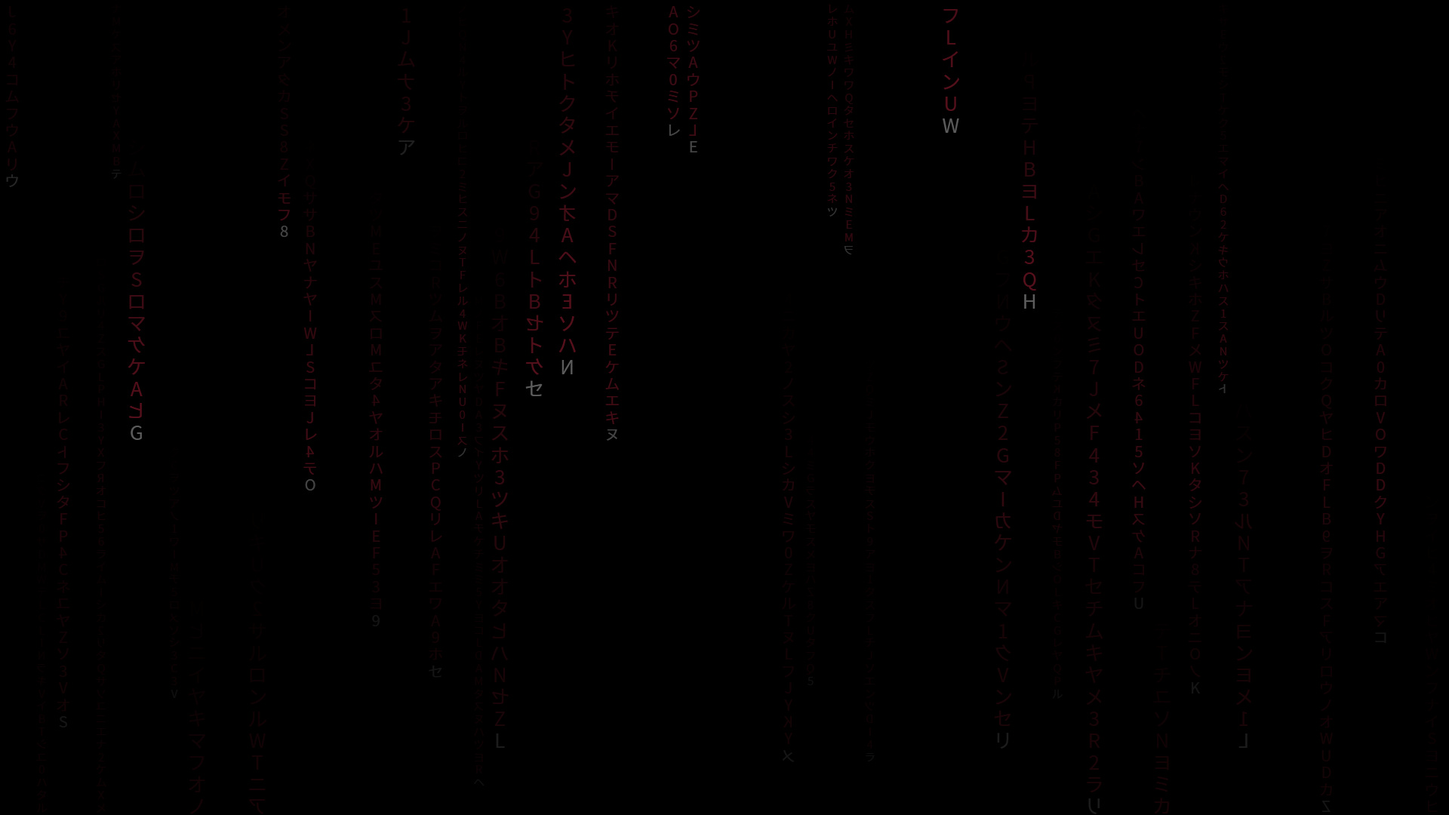
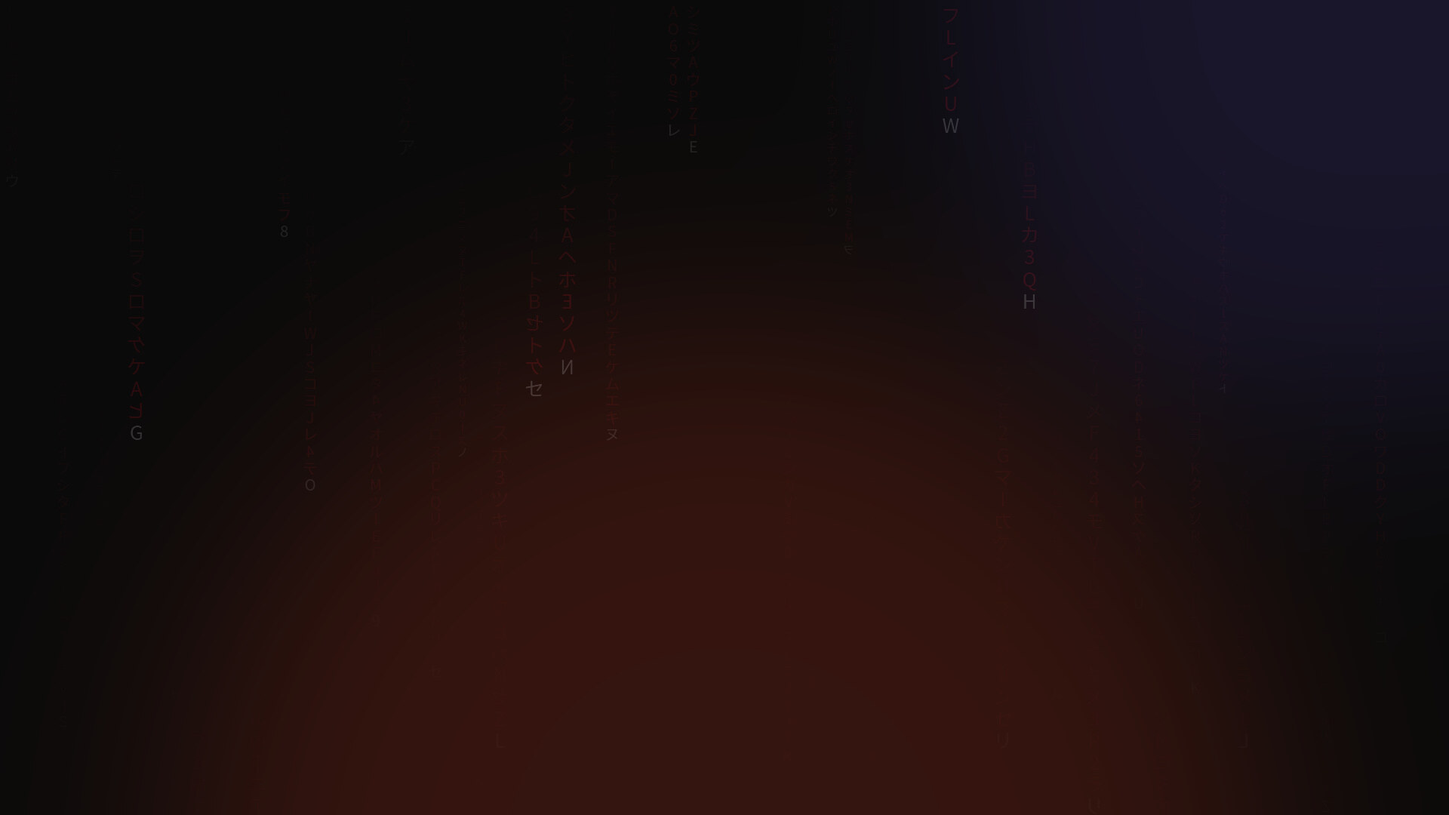
Launcher: liquid glass on the dock, the pills and every popup
The band, the four top-right circles and their popups share one material
— a milky body (28% to 12%), a glint off the top-left corner, a dark
inner shadow under the top rim, a bright rim that dims, and the frost
magnified 3.5% about each shape's centre so the light looks bent —
instead of a flat tint, and the settings panel the remote opens matches.

The r4g-home wallpaper now carries something for that glass to transmit,
because red-rain's own file is empty and near-black behind the dock
(0.0011 mean in the band's rows) and the frost had nothing to smear: the
rain lifted in contrast (gamma 0.55, add 4%), a soft red glow behind the
dock and a fainter violet one behind the top bar. Band rows 0.09,
circles 0.11.

Tried on the Acer R4G 50" (Google TV 14, UKR1.260308).

diff --git a/launcher/app/src/main/java/com/gathin/tvhome/BackdropGlassDrawable.java b/launcher/app/src/main/java/com/gathin/tvhome/BackdropGlassDrawable.java
@@ -9,16 +9,20 @@ import android.graphics.LinearGradient;
 import android.graphics.Matrix;
 import android.graphics.Paint;
 import android.graphics.PixelFormat;
+import android.graphics.RadialGradient;
 import android.graphics.Rect;
 import android.graphics.RectF;
 import android.graphics.Shader;
 import android.graphics.drawable.Drawable;
 
 /**
- * A frosted-glass background in the shape of its own bounds: the blurred wallpaper (the shared blurred copy
- * of the screen, drawn at the view's screen position so the smear lines up with the picture behind it), the
- * pills'/dock's white glass fading downwards, and the same thin rim. Used as the background of the top-right
- * pills and of the glass popups' panels, so the frost is part of the background and can never cover content.
+ * A liquid-glass background in the shape of its own bounds, in four layers: the blurred wallpaper (the shared
+ * blurred copy of the screen, drawn at the view's screen position so the smear lines up with the picture
+ * behind it), the pills'/dock's white body fading downwards, a soft sheen off the top-left corner, and the
+ * moulded edge - a dark inner shadow under the top rim that gives the glass thickness, and a bright rim that
+ * fades towards the bottom, so the shape reads as a lens and not as a flat slab. Used as the background of the
+ * top-right pills and of the glass popups' panels, so the frost is part of the background and can never cover
+ * content.
  *
  * While the view is focused the slab turns solid white, like the pills' focused state always was.
  *
@@ -31,8 +35,19 @@ public class BackdropGlassDrawable extends Drawable {
     private final Paint scrim = new Paint(Paint.ANTI_ALIAS_FLAG);
     private final Paint rim = new Paint(Paint.ANTI_ALIAS_FLAG);
     private final Paint solid = new Paint(Paint.ANTI_ALIAS_FLAG);
+    /** The glint in the top-left corner: liquid glass catches the room's light there, not only at the rim. */
+    private final Paint sheen = new Paint(Paint.ANTI_ALIAS_FLAG);
+    /** The dark inner shadow just under the top rim, which is what makes the shape look moulded. */
+    private final Paint depth = new Paint(Paint.ANTI_ALIAS_FLAG);
+    /** The bright rim, fading towards the bottom where the glass catches the light less. */
+    private final Paint lens = new Paint(Paint.ANTI_ALIAS_FLAG);
+    /** How much the backdrop is magnified inside the shape: about 3.5% at the edges reads as bent light. */
+    private static final float REFRACTION = 1.035f;
     private final RectF rect = new RectF();
     private final Matrix shaderMatrix = new Matrix();
+    /** Where the shape sits on screen, so the shader shows the part of the picture behind it. */
+    private int offsetX, offsetY;
+    private final float density;
     private final float radius;
     private final int scrimTop, scrimBottom;
     /** The shared blurred copy of the screen-sized wallpaper; null before the first picture or when it was dropped. */
@@ -53,21 +68,27 @@ public class BackdropGlassDrawable extends Drawable {
     /** The constructor DrawableInflater uses for pill_glass.xml: drawables are inflated with no arguments.
      *  The density is the system's, which is this window's too; a 21dp pill corner, the pills' white glass. */
     public BackdropGlassDrawable() {
-        this(Resources.getSystem().getDisplayMetrics().density, 21f, 0x2EFFFFFF, 0x14FFFFFF);
+        this(Resources.getSystem().getDisplayMetrics().density, 21f, 0x47FFFFFF, 0x1FFFFFFF);
     }
 
     /** @param density     px per dp.
      *  @param radiusDp    the shape's corner radius in dp (a 21dp pill at 42dp height is a circle).
      *  @param scrimTop    the glass fill at the top of the shape, an ARGB colour carrying its alpha.
-     *  @param scrimBottom the same at the bottom (the pills fade from 18% to 8% white). */
+     *  @param scrimBottom the same at the bottom (the pills and panels fade from 28% to 12% white, milky enough
+     *                     to read as frosted glass over a dark picture and still show it through). */
     BackdropGlassDrawable(float density, float radiusDp, int scrimTop, int scrimBottom) {
         radius = radiusDp * density;
         this.scrimTop = scrimTop;
         this.scrimBottom = scrimBottom;
+        this.density = density;
         rim.setStyle(Paint.Style.STROKE);
         rim.setStrokeWidth(density);
         rim.setColor(0x38FFFFFF);
         solid.setColor(0xF5FFFFFF);
+        lens.setStyle(Paint.Style.STROKE);
+        lens.setStrokeWidth(1.6f * density);
+        depth.setStyle(Paint.Style.STROKE);
+        depth.setStrokeWidth(2f * density);
     }
 
     /** The blurred screen at the picture's own size; null when there is no picture (the plain glass stays). */
@@ -79,7 +100,8 @@ public class BackdropGlassDrawable extends Drawable {
 
     /** Where this shape sits on screen, so the shader shows the part of the picture that is behind it. */
     void setScreenOffset(int x, int y) {
-        shaderMatrix.setTranslate(-x, -y);
+        offsetX = x;
+        offsetY = y;
         applyShader();
         invalidateSelf();
     }
@@ -89,6 +111,11 @@ public class BackdropGlassDrawable extends Drawable {
             blurPaint.setShader(null);
             return;
         }
+        // The picture behind the glass, then a slight magnification about the shape's own centre: the light that
+        // crosses the rim is bent, so what is inside the glass is a touch larger than what is outside it. That
+        // small shift at the edges is what reads as a lens rather than as a pane of tinted glass.
+        shaderMatrix.setTranslate(-offsetX, -offsetY);
+        shaderMatrix.postScale(REFRACTION, REFRACTION, rect.centerX(), rect.centerY());
         BitmapShader shader = new BitmapShader(backdrop, Shader.TileMode.CLAMP, Shader.TileMode.CLAMP);
         shader.setLocalMatrix(shaderMatrix);
         blurPaint.setShader(shader);
@@ -195,6 +222,21 @@ public class BackdropGlassDrawable extends Drawable {
         rect.set(bounds);
         scrim.setShader(new LinearGradient(0, bounds.top, 0, bounds.bottom,
                 scrimTop, scrimBottom, Shader.TileMode.CLAMP));
+        // The lens: a bright rim that dims towards the bottom, an inner shadow that reads as thickness under
+        // it, and a wide glint off the top-left corner. All three in the shape's own coordinates, so a pill
+        // and a popup panel look like the same material at their own sizes.
+        if (bounds.width() <= 0 || bounds.height() <= 0) return;
+        lens.setShader(new LinearGradient(0, bounds.top, 0, bounds.bottom,
+                0x6BFFFFFF, 0x29FFFFFF, Shader.TileMode.CLAMP));
+        depth.setShader(new LinearGradient(0, bounds.top, 0, bounds.bottom,
+                new int[]{0x4D000000, 0x00000000, 0x24FFFFFF},
+                new float[]{0f, 0.45f, 1f}, Shader.TileMode.CLAMP));
+        sheen.setShader(new RadialGradient(bounds.left + bounds.width() * 0.3f,
+                bounds.top + bounds.height() * 0.05f,
+                Math.max(bounds.width(), bounds.height()) * 0.65f,
+                0x2BFFFFFF, 0x00FFFFFF, Shader.TileMode.CLAMP));
+        // The shader is centred on the shape, so a new size needs it again (refraction).
+        applyShader();
     }
 
     @Override
@@ -206,13 +248,19 @@ public class BackdropGlassDrawable extends Drawable {
         }
         if (backdrop != null) canvas.drawRoundRect(rect, radius, radius, blurPaint);
         canvas.drawRoundRect(rect, radius, radius, scrim);
-        canvas.drawRoundRect(rect, radius, radius, rim);
+        canvas.drawRoundRect(rect, radius, radius, sheen);
+        canvas.drawRoundRect(rect, radius, radius, depth);
+        canvas.drawRoundRect(rect, radius, radius, lens);
     }
 
     @Override
     public void setAlpha(int alpha) {
         blurPaint.setAlpha(alpha);
         rim.setAlpha(alpha);
+        scrim.setAlpha(alpha);
+        sheen.setAlpha(alpha);
+        depth.setAlpha(alpha);
+        lens.setAlpha(alpha);
         invalidateSelf();
     }
 

diff --git a/launcher/app/src/main/java/com/gathin/tvhome/DockDecoration.java b/launcher/app/src/main/java/com/gathin/tvhome/DockDecoration.java
@@ -3,6 +3,7 @@ package com.gathin.tvhome;
 import android.graphics.Canvas;
 import android.graphics.LinearGradient;
 import android.graphics.Paint;
+import android.graphics.RadialGradient;
 import android.graphics.Rect;
 import android.graphics.RectF;
 import android.graphics.Shader;
@@ -18,6 +19,10 @@ public class DockDecoration extends RecyclerView.ItemDecoration {
     private final float density;
     private final Paint band = new Paint(Paint.ANTI_ALIAS_FLAG);
     private final Paint edge = new Paint(Paint.ANTI_ALIAS_FLAG);
+    /** The band's glint, its inner shadow and its bright rim - the same liquid-glass material as the pills. */
+    private final Paint sheen = new Paint(Paint.ANTI_ALIAS_FLAG);
+    private final Paint depth = new Paint(Paint.ANTI_ALIAS_FLAG);
+    private final Paint lens = new Paint(Paint.ANTI_ALIAS_FLAG);
     private final RectF rect = new RectF();
 
     /** Extra band below the tiles for their names (always_show_names), in px. */
@@ -28,6 +33,8 @@ public class DockDecoration extends RecyclerView.ItemDecoration {
     private final boolean evenPadding;
     /** The band's top and bottom the glass gradient was made for; it is remade when they move. */
     private float shaderTop = Float.NaN, shaderBottom = Float.NaN;
+    /** The band's left and right the glint was made for, so a wider band's glint stays in its corner. */
+    private float shaderLeft = Float.NaN, shaderRight = Float.NaN;
     /** Draw the band and its edge (config.xml dock_band); false leaves the tiles floating on the wallpaper. */
     private final boolean bandVisible;
     /** single_row: the tiles after the dock share its row, so they take the same offsets to stay level with it. */
@@ -64,6 +71,12 @@ public class DockDecoration extends RecyclerView.ItemDecoration {
         edge.setStyle(Paint.Style.STROKE);
         edge.setStrokeWidth(density);
         edge.setColor(lightGlass ? 0x38FFFFFF : translucent ? 0x26FFFFFF : 0x1FFFFFFF);
+        // The pills' liquid-glass lens (BackdropGlassDrawable): a bright rim fading down, the inner shadow under
+        // it, and the glint off the top-left corner.
+        lens.setStyle(Paint.Style.STROKE);
+        lens.setStrokeWidth(1.6f * density);
+        depth.setStyle(Paint.Style.STROKE);
+        depth.setStrokeWidth(2f * density);
     }
 
     /** Concentric corners: the band's radius is the tiles' radius plus the band's padding around them. */
@@ -163,12 +176,24 @@ public class DockDecoration extends RecyclerView.ItemDecoration {
             rect.right = Math.min(rect.right, parent.getWidth() - density);
         }
         rect.bottom += namesRoom;
-        if (lightGlass && (rect.top != shaderTop || rect.bottom != shaderBottom)) {
-            // The pills' glass (BackdropGlassDrawable: white, 18% fading to 8%), a little fainter over this much larger area.
-            band.setShader(new LinearGradient(0, rect.top, 0, rect.bottom, 0x24FFFFFF, 0x0DFFFFFF,
+        if (lightGlass && (rect.top != shaderTop || rect.bottom != shaderBottom
+                || rect.left != shaderLeft || rect.right != shaderRight)) {
+            // The pills' glass (BackdropGlassDrawable: white, 28% fading to 12%), a little fainter over this much larger area.
+            band.setShader(new LinearGradient(0, rect.top, 0, rect.bottom, 0x47FFFFFF, 0x1FFFFFFF,
                     Shader.TileMode.CLAMP));
+            // The same lens the pills carry: a rim that dims towards the bottom, the inner shadow that gives it
+            // thickness, and a wide glint off the top-left corner of the band.
+            lens.setShader(new LinearGradient(0, rect.top, 0, rect.bottom,
+                    0x64FFFFFF, 0x26FFFFFF, Shader.TileMode.CLAMP));
+            depth.setShader(new LinearGradient(0, rect.top, 0, rect.bottom,
+                    new int[]{0x47000000, 0x00000000, 0x22FFFFFF},
+                    new float[]{0f, 0.45f, 1f}, Shader.TileMode.CLAMP));
+            sheen.setShader(new RadialGradient(rect.left + rect.width() * 0.22f, rect.top + rect.height() * 0.1f,
+                    Math.max(rect.width(), rect.height()) * 0.62f, 0x26FFFFFF, 0x00FFFFFF, Shader.TileMode.CLAMP));
             shaderTop = rect.top;
             shaderBottom = rect.bottom;
+            shaderLeft = rect.left;
+            shaderRight = rect.right;
         }
         int bl = Math.round(rect.left), bt = Math.round(rect.top), br = Math.round(rect.right), bb = Math.round(rect.bottom);
         if (bl != lastBand.left || bt != lastBand.top || br != lastBand.right || bb != lastBand.bottom
@@ -179,6 +204,13 @@ public class DockDecoration extends RecyclerView.ItemDecoration {
             if (bandListener != null) bandListener.run();
         }
         c.drawRoundRect(rect, radius, radius, band);
-        c.drawRoundRect(rect, radius, radius, edge);
+        if (lightGlass) {
+            // The liquid-glass layers over the band's body: glint, inner shadow, bright rim.
+            c.drawRoundRect(rect, radius, radius, sheen);
+            c.drawRoundRect(rect, radius, radius, depth);
+            c.drawRoundRect(rect, radius, radius, lens);
+        } else {
+            c.drawRoundRect(rect, radius, radius, edge);
+        }
     }
 }

diff --git a/launcher/app/src/main/java/com/gathin/tvhome/MainActivity.java b/launcher/app/src/main/java/com/gathin/tvhome/MainActivity.java
@@ -3727,7 +3727,7 @@ public class MainActivity extends Activity implements AppAdapter.TileListener {
      *  rows by construction - the frost can never cover the content. */
     private void attachGlassBackdrop(PopupWindow popup, View panel) {
         if (dockBlurDp <= 0) return;
-        BackdropGlassDrawable glass = new BackdropGlassDrawable(density, 20f, 0x24FFFFFF, 0x0DFFFFFF);
+        BackdropGlassDrawable glass = new BackdropGlassDrawable(density, 20f, 0x47FFFFFF, 0x1FFFFFFF);
         panel.setBackground(glass);   // replaces glass_panel's dark slab
         glass.setBackdrop(blurredBackdrop);
         glassBackdrops.add(glass);

diff --git a/launcher/app/src/main/java/com/gathin/tvhome/QuickSettingsActivity.java b/launcher/app/src/main/java/com/gathin/tvhome/QuickSettingsActivity.java
@@ -46,7 +46,7 @@ public final class QuickSettingsActivity extends Activity {
         android.graphics.Bitmap backdrop = BackdropGlassDrawable.sharedBackdrop();
         if (backdrop != null) {
             BackdropGlassDrawable glass = new BackdropGlassDrawable(
-                    getResources().getDisplayMetrics().density, 20f, 0x24FFFFFF, 0x0DFFFFFF);
+                    getResources().getDisplayMetrics().density, 20f, 0x47FFFFFF, 0x1FFFFFFF);
             glass.setBackdrop(backdrop);
             panelView.setBackground(glass);
             panelView.addOnLayoutChangeListener((v, l, t, r, b, ol, ot, orr, ob) -> {

diff --git a/ISSUES.md b/ISSUES.md
@@ -32,6 +32,8 @@ from the symptom column. The procedure itself is in [MYTV.md](MYTV.md).
 | 24 | The tiles for Netflix, Prime Video, Hotstar and YouTube were gone from Home, but the remote's app buttons still opened them from any screen | `hidden_apps` only hides tiles — the packages stayed installed, so any direct launch path still worked, and the firmware's cold-boot job keeps re-enabling what exists (#14, #21) | On our set: `pm uninstall --user 0` for every bloat package that was only disabled or hidden — 33 packages on 2026-11-01 (the four streaming apps, the hidden_apps utilities, the rest of the disabled list). The job can only enable a package that still exists, so nothing brings them back. Kept: `com.realtek.tv` (HDMI), `com.apps.ota` (firmware), `com.apps.bluetoothremote` (pairing), consent and backup components — the full list is [MYTV.md](MYTV.md) §2c |
 | 25 | The Play Store came back after a reboot even though `pm disable-user --user 0 com.android.vending` answered `Success` | The firmware's cold-boot `pm enable` pass (#14, #21) re-enables every package that still exists on its list, and `vending` evidently gets the same treatment — a disable on this set lasts only until the next power cycle | Remove it: `pm uninstall --user 0 com.android.vending`. Checked across two cold boots on 2026-11-02 — `pm path com.android.vending` stayed empty, because the job can only `pm enable` a package that still exists (the same reason the 33 in #24 stay gone). Play Services stays enabled, and with LocalSend and VLC already on F-Droid builds nothing on the set is Play-managed. Record: [MYTV.md](MYTV.md) §2d |
 | 26 | `tools/venv/bin/python -m unittest discover -s tests` was **red on a clean checkout** — 31 failures and 13 errors, none of them caused by an edit | Upstream's suite asserts upstream's pages. On 2026-10-30 this fork replaced the root `README.md` with its own 54-line page (`35ace4e3`), so the Tools table, the brand-grid markers, the translation links, the press card, the quick start's clone step and the privacy, Tizen, Fire TV and Home-protection sections the tests read were all gone; `gen_tables.py --check` stopped on the missing `<!-- tv-brands -->` markers; `themes/` held 13 folders (`r4g-home` is ours) while the German and Dutch rows said 12; `examples/acer-r4g-gtv/` had no `tv.json`; and five pages gave the set's real LAN address | Fixed 2026-11-03. The page is now our fork block on top — [MYTV.md](MYTV.md), [ISSUES.md](ISSUES.md), `apps.txt`, our one command, what our set runs — followed by upstream's sections, so every table and heading the tests read is back; the `tv.json` row is added, the real address is `<tv ip>` everywhere, the count reads 13 on all three front pages, `install_apps.py` has its Tools row, and `gen_tables.py` regenerated the brand grid, the table row and `tools/readme_stats.py`. **2251 tests, OK (41 skipped)**, and `gen_tables.py --check` exits 0. `gen_tables.py` still prints "a count changed": redraw `docs/stats.png` and `docs/card.jpg` when convenient |
+| 27 | The dock band, the four top-right circles and their popups showed no blur and no transparency over red-rain's wallpaper, while the same build frosted normally over a bright picture | The glass was drawing correctly — `logcat` (`TvHome.DockBlur`) showed a valid bitmap and the band's rectangle — but the wallpaper was near-pure black exactly where the glass sits: the band's rows measured **0.0011** mean luminance, the button area **0.0001**. Blurring black returns black, so the shapes had nothing to smear and read as flat grey slabs — and the bottom third of that file carries almost no rain at all, so merely raising its brightness gave an evenly grey wash, which blurs to itself | Give the picture something to transmit: `gamma 0.55` then `add 4%`, so the rain text is far brighter than the black around it, plus a soft red glow behind the dock and a faint violet one behind the top bar, composited into the picture (the band's rows went 0.0011 → 0.09, the circles to 0.11). Then give the glass its own material so the shapes read over a dark backdrop too: `BackdropGlassDrawable` and `DockDecoration` draw the white body (28% → 12%), a glint off the top-left corner, a dark inner shadow under the top rim, a bright rim that dims downwards, and 3.5% refraction. To tell "no blur" from "nothing to blur", push a green-over-red test picture and sample a column in a gap between band tiles: outside the band the colour flips in 2 rows, inside it ramps over about 60. Detail: [MYTV.md](MYTV.md) §8 |
+| 28 | The CI size gate (APK under 589,824 B) fails on `main`, not only after an edit | **Known state, pre-existing:** the unmodified tree builds 594,273 B — 4,449 B over — because this fork's two features (the idle clock, the glass) sit on top of upstream's budget. The liquid glass added 536 B on top of that (594,809 B). The gate is a replied-to issue for the maintainer, never a PR edit | Nothing to change here. Building with no JDK on the host goes through `tools/docker-build.sh launcher assembleRelease`, then `SKIP_BUILD=1 TV_HOST=<tv ip> launcher/build-and-install.sh`; check the size with `stat -c %s launcher/app/build/outputs/apk/release/app-release.apk` |
 
 ---
 

diff --git a/themes/r4g-home/README.md b/themes/r4g-home/README.md
@@ -33,8 +33,8 @@ way every folder in [`themes/`](../) is.
 | `settings_key_panel` | `true` | Settings opens the small glass panel (TV settings, Display, Network, Apps, Launcher settings) instead of the full TV Settings. The remote's Settings key already reads this; the on-screen gear needs the rebuilt APK below. |
 | `single_row` | `true` | Every app in one horizontal dock row: four tiles on screen at once (`columns` = 4), Right/Left scroll the row sideways to the rest. No grid below; Up goes to the top bar. |
 | `dock_band_all` | `true` | With `single_row`, the dock band runs behind **every** app in the row instead of only the four in `dock_apps`. |
-| `dock_glass` | `true` | The dock band as light frosted glass (iOS-"liquid glass"-ish: white gradient fading downwards, bright edge) so the wallpaper shows through it. Supersedes `dock_opacity` while on — the light glass has no dark colour to scale. |
-| `dock_blur` | `24` | Real backdrop blur behind the dock band: a blurred copy of the wallpaper clipped to the band's rounded rectangle (RenderEffect, Android 12+). The same blur and the band's glass also frost the top-right pills (inputs, network, reorder, settings), every glass popup's background and the settings panel the remote's Settings key opens, each blurred against its own place on screen; the pills keep their translucent circles and the popups their rows on top. One setting, 0 turns it all off. |
+| `dock_glass` | `true` | The dock band as liquid glass, so the wallpaper shows through it: the white body fading downwards, a glint off the top-left corner, a dark inner shadow under the top rim, a bright rim that dims towards the bottom, and the frost magnified about 3.5 % about the shape's centre so the light looks bent at the rim — the same material the pills and every popup carry. Supersedes `dock_opacity` while on — the light glass has no dark colour to scale. |
+| `dock_blur` | `24` | Real backdrop blur behind the dock band: a blurred copy of the wallpaper clipped to the band's rounded rectangle (RenderEffect, Android 12+). The same blur and the band's glass also frost the top-right pills (inputs, network, reorder, settings), every glass popup's background and the settings panel the remote's Settings key opens, each blurred against its own place on screen; the pills keep their translucent circles and the popups their rows on top. One setting, 0 turns it all off. **The blur only smears what the picture has.** `wallpaper.jpg` is red-rain's file treated so the glass has something to show: the rain lifted in contrast (`gamma 0.55`, then `add 4%`) so its text is far brighter than the black around it, plus a soft red glow behind the dock and a faint violet one behind the top bar, both added in the picture (not the launcher, so they cost nothing to draw). Red-rain's original is near-black behind the dock — 0.0011 mean luminance in the band's rows against 0.09 now — and the bottom third carries almost no rain at all, so on the untouched file the frost had nothing to smear and the glass read as a grey slab whichever way it was tinted. |
 | `dock_opacity` | `30` | The dock band at 30% opacity, so the wallpaper shows through it. Only applies while `dock_glass` is off. A value picked in Launcher settings still wins until the next `tools/theme.sh` push, which clears the pick (100, 70, 50 or 30 are its options). |
 | `stock_home_redirect` | `com.google.android.apps.tv.launcherx` | Stock Home stays on `launcherx` — this firmware re-enables it every cold boot — and sends its home screen straight back to this launcher. |
 | `home_idle_clock_minutes` | `10` | Clock screensaver after 10 idle minutes on Home (`0` = off). |

diff --git a/MYTV.md b/MYTV.md
@@ -291,6 +291,38 @@ The firmware's `FallbackHome` re-enables its 60-package list only on a **cold** 
 standby. After unplugging the TV, re-check step 6 — anything on that list comes back enabled, which is
 why `hidden_apps` rather than `pm disable-user` is what keeps those tiles away.
 
+## 8. The look: liquid glass, and why the wallpaper is lifted
+
+`dock_glass` + `dock_blur: 24` give Home one glass material everywhere: the dock band, the four top-right
+circles (inputs, network, reorder, settings), and every popup they open, including the settings panel the
+remote's Settings key shows. The band's blur is the view's `RenderEffect` (`DockBlurView`); the circles and
+popups draw a shared software-blurred copy of the same picture at their own place on screen, so the frost
+lines up with what is behind each shape. On top of the blur sits the glass itself
+(`BackdropGlassDrawable`, `DockDecoration`): the white body fading downwards, a glint off the top-left
+corner, a dark inner shadow under the top rim that gives it thickness, a bright rim that dims towards the
+bottom, and — in the pills and popups — the frost magnified about 3.5 % about the shape's own centre, so the
+light that crosses the rim looks bent and the shape reads as a lens rather than a pane of tinted glass.
+
+**The blur can only smear what the picture has.** With red-rain's own `wallpaper.jpg` the band and the
+buttons sit over near-pure black: the band's rows measured **0.0011** mean luminance, the button area
+**0.0001**, and the bottom third carries almost no rain at all — so even a brightened copy of it smears to a
+flat wash, and the glass read as a grey slab whichever way it was tinted. Not a bug in the layer: pushing a
+green-over-red test picture and sampling a column inside the band showed the colour ramping over about 60
+rows, against a 2-row flip outside it. Two things fixed it:
+
+- **The picture carries something to transmit.** `gamma 0.55` then `add 4%` lifts the rain so its text is far
+  brighter than the black around it (a blur of thin bright text reads as a haze; a blur of grey reads as
+  grey), plus a soft red glow behind the dock and a faint violet one behind the top bar, composited into the
+  picture itself. The band's rows now measure **0.09** and the circles **0.11** — the glow was halved from a first pass
+(0.12 / 0.18) that read too warm over the rain.
+- **The glass carries its own material**, so the shapes read as glass even where the backdrop is dark — the
+  body (28% white fading to 12%), the inner shadow, the bright rim and the 3.5% refraction.
+
+Verifying a blur claim, rather than trusting a screenshot: put a high-contrast test picture behind the band
+(green above, red below) and sample rows across the band's edge. Outside the band the colour flips green→red
+inside 10 rows; inside it ramps over about 40 — that ramp is the blur. A single screenshot of a dark wallpaper
+cannot tell "no blur" from "nothing to blur".
+
 ## Known behaviour on this set
 
 | Thing | State | Why |

diff --git a/themes/README.md b/themes/README.md
@@ -189,9 +189,9 @@ A new key needs one there in the same pull request.
 | `cinematic_scrim` | 0 to 100 | With `cinematic_home`, the strength of the dark scrim behind the shelf's name (`100` by default); lower lets a wallpaper show through |
 | `cinematic_art` | 0 to 100 | With `cinematic_home`, the opacity of the focused app's softened artwork (`50` by default); `0` leaves the wallpaper uncovered |
 | `dock_even_padding` | bool | The dock band's padding equals the gap between its tiles on all four sides, as far as the grid's edges leave room (`false` by default) |
-| `dock_glass` | bool | The dock band as light frosted glass like the top bar's pills (`false` by default); suits `sky_intensity` or a wallpaper, where the solid band reads as a dark slab |
+| `dock_glass` | bool | The dock band as light frosted glass like the top bar's pills (`false` by default); suits `sky_intensity` or a wallpaper, where the solid band reads as a dark slab. The glass is a liquid-glass material: a white body fading downwards, a glint off the top-left corner, a dark inner shadow under the top rim for thickness, a bright rim that dims towards the bottom, and the blurred backdrop magnified about 3.5% about the shape's centre so the light crossing the rim looks bent |
 | `dock_band` | bool | Draw the dock band and its edge (`true` by default); `false` leaves the tiles floating on the wallpaper with no band, border or dark slab |
-| `dock_blur` | 0 to 40 | Real backdrop blur behind the dock band: a blurred copy of the wallpaper clipped to the band's rounded rectangle, in dp of radius (0, the default, keeps no layer; about 24 reads as frosted glass, Android 12+). Above 0 the same blur and glass also frost the top-right pills' circles, every glass popup's background and the settings panel (`settings_key_panel`), each against its own place on screen |
+| `dock_blur` | 0 to 40 | Real backdrop blur behind the dock band: a blurred copy of the wallpaper clipped to the band's rounded rectangle, in dp of radius (0, the default, keeps no layer; about 24 reads as frosted glass, Android 12+). Above 0 the same blur and glass also frost the top-right pills' circles, every glass popup's background and the settings panel (`settings_key_panel`), each against its own place on screen. The blur only smears what the picture has behind the glass, so over a near-black wallpaper the shapes read through their body and rim alone — give the picture texture there (or lift its shadows) if the frost should be visible |
 | `single_row` | bool | Every app in the dock's row, the dock apps first, scrolling sideways; no grid below (`false` by default; needs `dock_row`) |
 | `dock_band_all` | bool | With `single_row`, the band runs behind every app in the row, not only the dock apps (`false` by default) |
 | `ambient_glow` | bool | The glow behind the dock in the focused app's colour (`true` by default); `false` keeps only `background_color` or the wallpaper, e.g. for a calm photo background |
